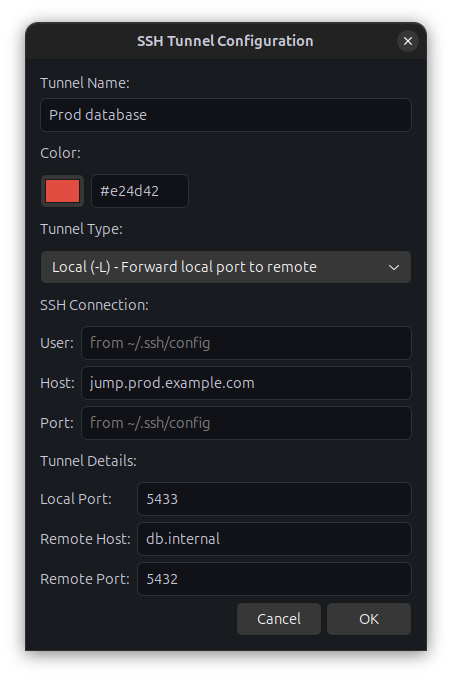
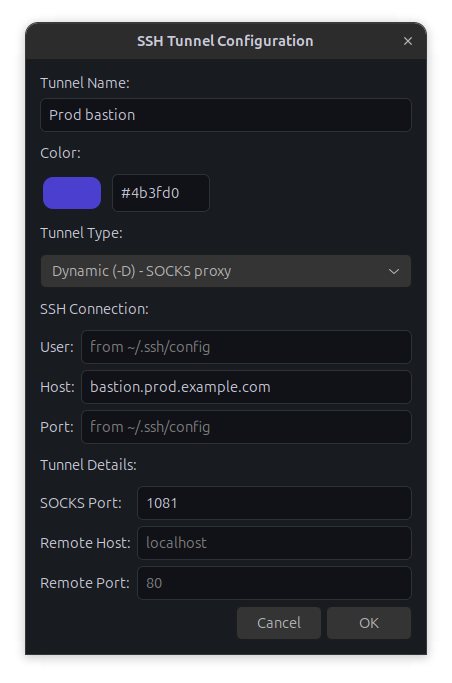
docs: update README and screenshots for the current interface
New screenshots of the main window, tunnel dialog, color picker, settings window, ZeroOmega export preview and tray menu, made with demo tunnels on example.com hosts. The README lists the fork-only features, describes the Settings window instead of the old dropdown, the tray Start all / Stop all item, notifications, and that clicking the selected row opens Edit. The profiles table in the export preview is taller, so four profiles fit without scrolling.

diff --git a/easier_ssh_tunnel.py b/easier_ssh_tunnel.py
@@ -3684,7 +3684,7 @@ class EasySSHTunnelApp(Gtk.Window):
         box.pack_start(show_unchanged, False, False, 0)
         box.pack_start(Gtk.Label(label="Profiles", xalign=0), False, False, 4)
         box.pack_start(table([("", 'dot'), ("Profile", 'name'), ("Proxy", 'expand')],
-                             profiles, 120), False, True, 0)
+                             profiles, 170), False, True, 0)
         box.pack_start(Gtk.Label(label="Auto switch rules, in the order ZeroOmega checks them",
                                  xalign=0), False, False, 4)
         switch_names = {r[3] for r in rules}

diff --git a/README.md b/README.md
@@ -10,6 +10,16 @@
 > | Tunnel colors and a dark theme | [#5](https://github.com/ProjectMakersDE/EasySSHTunnelManager/pull/5) |
 > | Autostart question in install.sh | [#6](https://github.com/ProjectMakersDE/EasySSHTunnelManager/pull/6) |
 >
+> Only in this fork:
+>
+> | Change |
+> |---|
+> | Color picker with presets, your colors, recent colors and shades per color |
+> | Duplicate a tunnel; clicking the selected row opens Edit |
+> | Fedora, Arch and openSUSE support in install.sh, window mode without a tray |
+> | Settings window, ZeroOmega export with a preview, optional auto switch rules learned per tunnel |
+> | Start all / Stop all in the tray menu, a notification when a tunnel stops unexpectedly |
+>
 > The app is renamed to Easier SSH Tunnel Manager: command `easier_ssh_tunnel.py`, config in `~/.config/easier-ssh-tunnel/`. On first start it copies the tunnels from `~/.config/easy-ssh-tunnel/`, so it can be installed next to the original.
 >
 > The screenshots below use demo tunnels on example.com hosts.
@@ -29,17 +39,32 @@
 ### Main Window
 ![Main Window](screenshots/main-window.png)
 
-*Main window: ON/OFF switch, tunnel color, status and the last ssh error per tunnel. The bar above the list shows a tunnel found outside the app.*
+*Main window: ON/OFF switch, tunnel color, status and the last ssh error per tunnel.*
 
 ### System Tray Integration
 ![System Tray](screenshots/system-tray.png)
 
-*Tray menu: status on the left (🟢 running, 🟡 connecting, 🔴 stopped, 🟠 external, ⚪ offline), tunnel color on the right. Click a tunnel to switch it on or off.*
+*Tray menu: status on the left (🟢 running, 🟡 connecting, 🔴 stopped, 🟠 external, ⚪ offline), tunnel color on the right. Click a tunnel to switch it on or off; Start all / Stop all below the list.*
 
 ### Add/Edit Tunnel Dialog
 ![Add Tunnel](screenshots/add-tunnel.png)
 
-*Tunnel dialog with color picker. User and Port left empty are taken from `~/.ssh/config`.*
+*Tunnel dialog. Click the color to open the picker. User and Port left empty are taken from `~/.ssh/config`.*
+
+### Color Picker
+![Color Picker](screenshots/color-picker.png)
+
+*Theme presets, your colors, recent colors, and five shades of the selected color.*
+
+### Settings
+![Settings](screenshots/settings.png)
+
+*Import and export, ZeroOmega export, site tracking and the browsers used for it.*
+
+### ZeroOmega Export Preview
+![ZeroOmega Export Preview](screenshots/export-preview.png)
+
+*What the export adds or changes in your ZeroOmega backup, and learned rules an existing rule already covers.*
 
 ---
 
@@ -49,7 +74,9 @@
   - Icon appears in the top bar (system tray)
   - Left-click: Quick menu showing all tunnels with status indicators
   - Click on tunnel name to toggle it on/off
-  - Each tunnel shows its status (🟢 running, 🟡 connecting, 🔴 stopped, ⚪ offline) and local port
+  - Each tunnel shows its status (🟢 running, 🟡 connecting, 🔴 stopped, 🟠 external, ⚪ offline) and local port
+  - One item to start all tunnels, or stop all when any runs
+  - A desktop notification when a tunnel stops unexpectedly
   - "Manage Tunnels..." option to open the full configuration GUI
 
 - **Multiple Tunnel Types:**
@@ -59,11 +86,13 @@
 
 - **Easy Management:**
   - Add, edit, and remove tunnel configurations
-  - Start and stop tunnels with the ON/OFF switch on each row, by double-clicking a row, or with the toolbar buttons
+  - Start and stop tunnels with the ON/OFF switch on each row or with the toolbar buttons
   - Start all or stop all tunnels at once
   - View tunnel status in real-time, with the last ssh error (for example a port that is already in use) in the Messages column
   - Open an interactive ssh session to a tunnel's host in the default terminal
   - Detect tunnels opened outside the app (a plain `ssh -D/-L` in a terminal, or a forward on a shared ControlMaster connection) and add them to the list
+  - Duplicate a tunnel with the next free port and a neighbouring shade of its color
+  - Export SOCKS tunnels to ZeroOmega, optionally with auto switch rules learned per tunnel
   - Persistent configuration storage
 
 - **User-Friendly Interface:**
@@ -172,8 +201,9 @@ The application will start minimized to the system tray. Look for the network ic
    - 🔴 = stopped, the tunnel was switched on but the connection went down
    - ⚪ = offline, the tunnel is switched off
 3. **Click on a tunnel name** to toggle it on/off
-4. **Click "Manage Tunnels..."** to open the full configuration window
-5. **Click "Quit"** to exit the application
+4. **Click "Start all"** to start every tunnel; while any runs it reads **"Stop all"**
+5. **Click "Manage Tunnels..."** to open the full configuration window
+6. **Click "Quit"** to exit the application
 
 ### Managing Tunnels
 
@@ -186,10 +216,10 @@ The application will start minimized to the system tray. Look for the network ic
    - **Start all** / **Stop all** - Start every tunnel that is not open, or stop every tunnel started by the app
    - **Start** - Activate a tunnel
    - **Stop** - Deactivate a tunnel; on a stopped tunnel this clears it to offline
-   - **Settings** - Import / export, ZeroOmega export and site tracking, see [Settings Menu](#settings-menu)
+   - **Settings** - Import / export, ZeroOmega export and site tracking, see [Settings](#settings-1)
    - **Terminal** - Open `ssh [user@]host` in the default terminal (`x-terminal-emulator`). Greyed out until a tunnel is selected. When the tunnel is not open, a dialog offers **Start tunnel**, **Open SSH session** or **Both**; the ssh session alone does not open the tunnel's port.
 3. The switch at the start of each row shows whether the tunnel's port is open and follows the connection: it turns off when ssh exits.
-   Only the switch turns a tunnel on or off. Two clicks on the same row within a second open Edit.
+   Only the switch turns a tunnel on or off. Clicking the row that is already selected opens Edit.
 4. **Quit** (tray menu, or closing the window with `--no-indicator`) stops every tunnel the app started. When tunnels are running, the app asks first.
 
 ### Tunnel Status
@@ -202,15 +232,17 @@ The application will start minimized to the system tray. Look for the network ic
 | External | the tunnel's port is held by an ssh process outside the app |
 | Offline | the tunnel is switched off |
 
-### Settings Menu
+### Settings
 
-The **Settings** button in the toolbar holds:
-- **Import SSH commands…** and **Export SSH commands…** (previously separate toolbar buttons)
-- **Export to ZeroOmega…**, see below
-- **Track visited sites**, off by default
-- **Save site history for editable wildcards**, off by default, and **Manage site history…**
-- **Clear site history…**
-- **Browsers for direct sites**: the browsers found on this computer, each can be switched off
+The **Settings** button in the toolbar opens a window with three sections:
+
+| Section | Contents |
+|---|---|
+| Import & export | Import SSH commands, Export SSH commands, Export to ZeroOmega |
+| Site tracking for ZeroOmega auto switch | Track which sites each tunnel is used for (off by default), Save site history for editable wildcards (off by default), Manage site history, Clear site history |
+| Browsers for direct sites | One switch per browser found on this computer |
+
+Each row says what it stores; the texts change with the settings.
 
 ### Export to ZeroOmega
 
